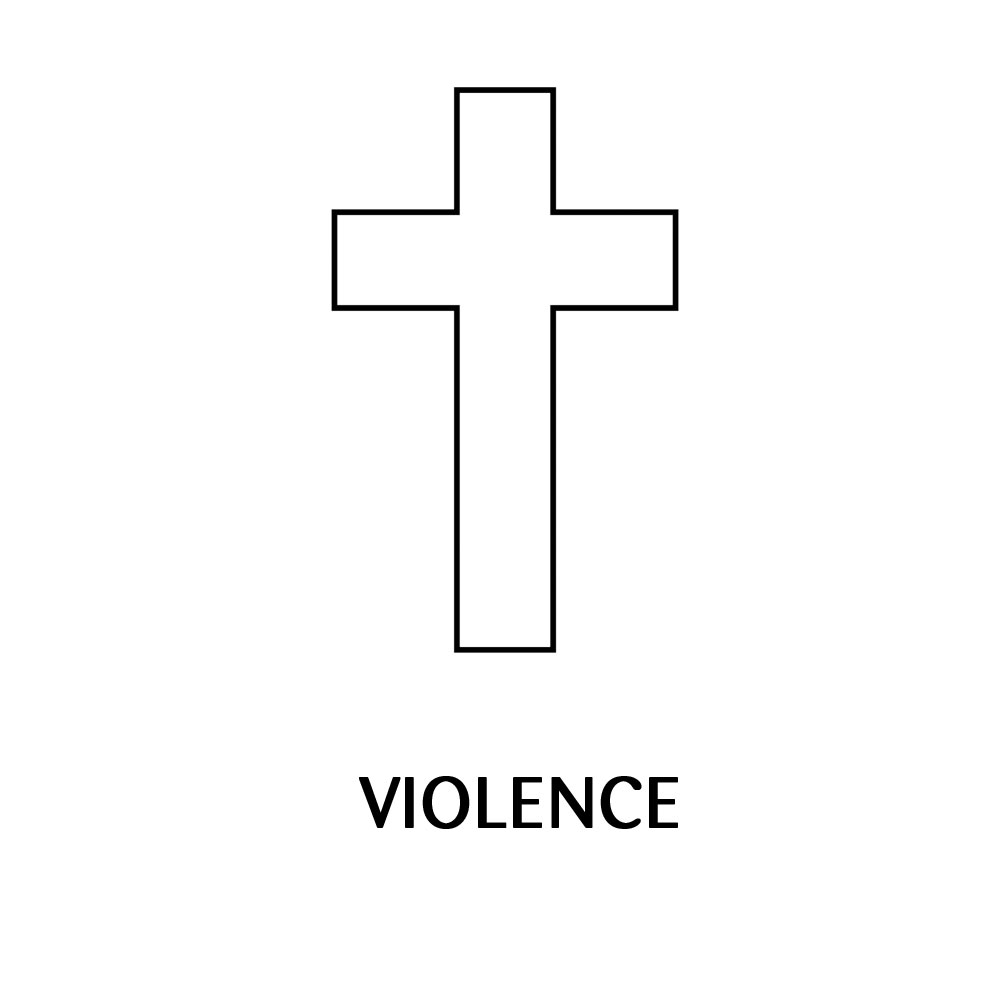
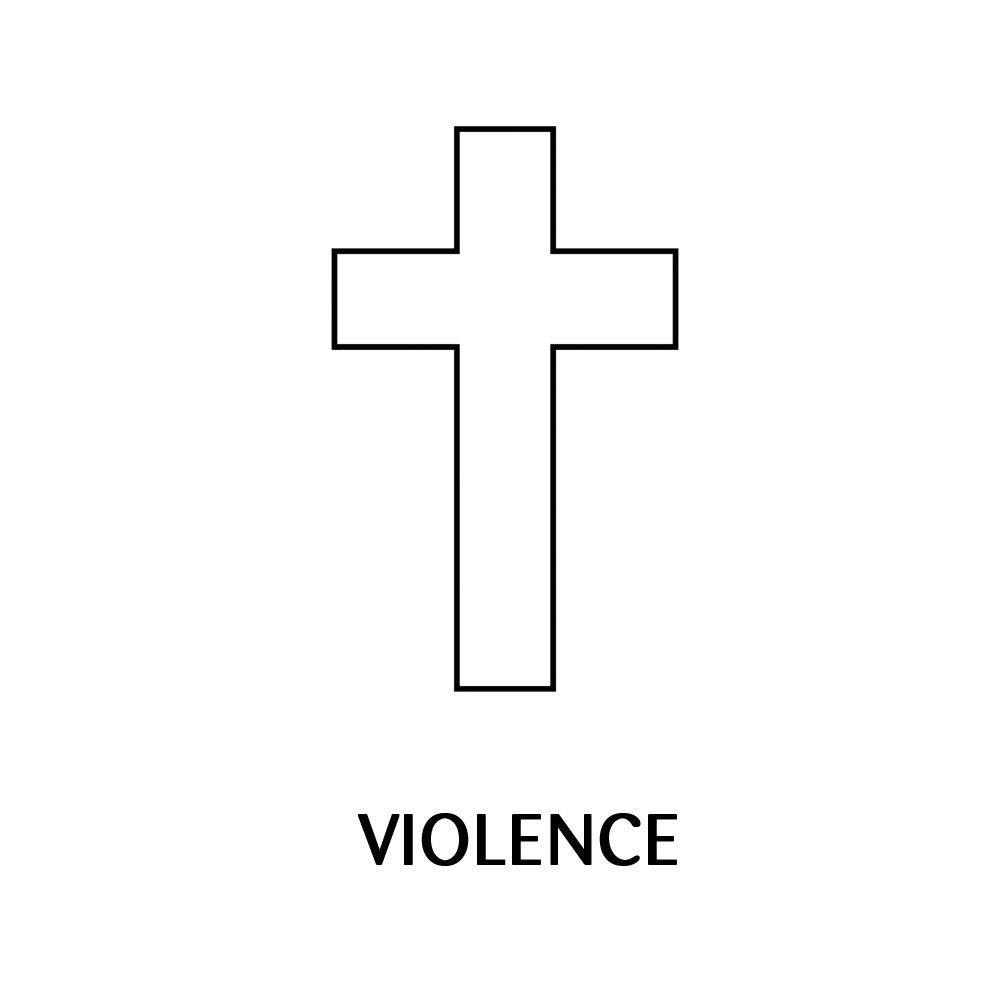
up

diff --git a/inter24.html b/inter24.html
@@ -39,13 +39,18 @@
 -->
 			<div class="image-zoom-container-max">
 				<div class="zoom-container-max">
-					<a href="https://theembassy.github.io/" target="_self"><img src="img/inter23.jpg" /></a>
+					<a href="https://theembassy.github.io/" target="_self"><img src="img/inter25.jpg" /></a>
 				</div>
 			</div>
 
 			<ul class="cat-nav">
-				<li><b>New single<br><h1>Renegades</h1>20 april 2023</b></li>
-				<li><br>Under natten blåser stormen upp<br>förekommer dem som tvekar<br>säger: "blommans väsen är att falla"</li>
+				<li><b>New single<br><h1>Violence</h1>july 2023</b></li>
+				<li><br>The nations raged, but your wrath came,<br>
+    						and the time for the dead to be judged,<br>
+								and for rewarding your servants, the prophets and saints,<br>
+    						and those who fear your name,<br>
+    						both small and great,<br>
+								and for destroying the destroyers of the earth.<br></li>
 				<li><br>© ℗ INTERNATIONAL</li>
 			</ul>
 

diff --git a/css/style11.css b/css/style11.css
@@ -340,6 +340,7 @@ ul.cat-nav li.txt2 {
   list-style: none;
   font-size: 0px;
   box-shadow: 0px 0px 0px #888888;
+  border: 2px solid #000;
   background-color: #fff;
 
 }
